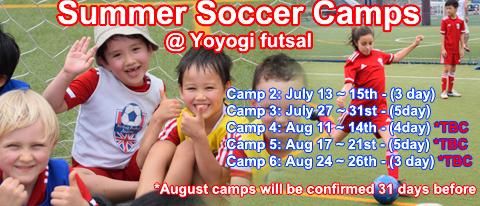
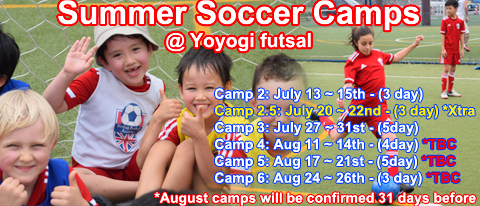
Camp corrections
7 camps

Changed region(s): [[0.3125, 0.4078, 1.0, 1.0]]

diff --git a/j/pages/camp.html b/j/pages/camp.html
@@ -76,7 +76,7 @@
 												<p>6歳〜12歳が対象のサマーキャンプでは年齢別に分けたクラス構成で実施いたします。 開催地は代々木フットサルコートとなります。</p>
 												<p><br>
 													キャンプを仕切るコーチ陣はイギリスフットボール（サッカー）協会公式指導免許を取得している選りすぐりのコーチ達で、全員カリスマ性溢れるプロフェッショナルですので、安心してご参加ください。</p>
-												<p>参加する日にちはフルスケジュール（３日又は４日間）で参加することをおすすめしておりますが、単日での参加も可能となっております。<br>
+												<p>参加する日にちはフルスケジュールで参加することをおすすめしておりますが、単日での参加も可能となっております。<br>
 													注：単日でのご参加も可能ですが、フルスケジュールでご参加のお子様を優先して受け付けさせて頂いております。単日でのご参加が可能かどうかは、キャンプの1週間前に連絡させて頂きますのでご了承頂きます様お願い申し上げます。
 													<br>
 													<br>
@@ -88,32 +88,24 @@
 													<li>6〜8歳対象: 午前 9：10 ~ 午後11：50 (100分間) BFAメンバー1日5,000 / BFAメンバー以外1日6,000
 													<li>9〜12歳対象: 午前11:00 ~ 午後12：00 (1時間)BFAメンバー1日3,000 / BFAメンバー以外1日4,000
 												</ol>
-												<p><b>キャンプ 2:  </b>7月13日 (月) − 10日（水）3日間 @ <b><a class="content" href="https://www.jpnsport.go.jp/yoyogi/sisetu/tabid/222/Default.aspx" target="_blank">Yoyogi Futsal Courts</a></b></p>
+												<p><b>キャンプ 2:  </b>7月13日 (月) − 15日（水）3日間 @ <b><a class="content" href="https://www.jpnsport.go.jp/yoyogi/sisetu/tabid/222/Default.aspx" target="_blank">Yoyogi Futsal Courts</a></b></p>
 												<ol>
 													<li>6〜8歳対象: 午前9:10 ~ 午後10：50 (100分間) BFAメンバー1日5,000 / BFAメンバー以外1日6,000
 													
 													<li>9〜12歳対象: 午前10:00 ~ 午後12：00 (2時間)BFAメンバー1日6,000 / BFAメンバー以外1日7,000
 												</ol>
+												<p><b class="red">キャンプ 2.5: </b>7月20日 (月) − 22日（水）3日間 @ <b><a class="content" href="https://www.jpnsport.go.jp/yoyogi/sisetu/tabid/222/Default.aspx" target="_blank">Yoyogi Futsal Courts</a></b></p>
+												<ol>
+													<li>6〜8歳対象: 午前11:00 ~ 午後12：30 (90分間) BFAメンバー1日5,000 / BFAメンバー以外1日6,000
+													<li>9〜12歳対象: 午前12:30 ~ 午後2：00 (90分間) BFAメンバー1日5,000 / BFAメンバー以外1日6,000
+												</ol>
 												<p><b>キャンプ 3: </b>7月27日 (月) − 7月31日（金）5日間 @ <b><a class="content" href="https://www.jpnsport.go.jp/yoyogi/sisetu/tabid/222/Default.aspx" target="_blank">Yoyogi Futsal Courts</a></b></p>
 												<ol>
-													<li>6〜8歳対象: 午前9:10 ~ 午後10：50 (100分間) BFAメンバー1日4,000 / BFAメンバー以外1日5,000
-													<li>9〜12歳対象: 午前9:10 ~ 午後11：50 (2時40分間) BFAメンバー1日7,000 / BFAメンバー以外1日8,000
+													<li>6〜8歳対象: 午前9:10 ~ 午後10：50 (100分間) BFAメンバー1日5,000 / BFAメンバー以外1日6,000<li>9〜12歳対象: 午前9:10 ~ 午後11：50 (2時40分間) BFAメンバー1日7,000 / BFAメンバー以外1日8,000
 												</ol>
-												<p><b>キャンプ 4: </b>8月11日 (火) − 8月14日（金）4日間　<font color="#ff3300">開催予定</font> @ <font color="#ff3300"> </font><b><a class="content" href="https://www.jpnsport.go.jp/yoyogi/sisetu/tabid/222/Default.aspx" target="_blank">Yoyogi Futsal Courts    </a></b></p>
-												<ol>
-													<li>6〜8歳対象: 午前9:10 ~ 午後10：50 (100分間) BFAメンバー1日4,000 / BFAメンバー以外1日5,000
-													<li>9〜12歳対象: 午前9:10 ~ 午後11：50 (2時40分間) BFAメンバー1日7,000 / BFAメンバー以外1日8,000
-												</ol>
-												<p><b>キャンプ 5: </b>8月17日 (月) − 8月21日（金）5日間 <font color="#ff3300">開催予定</font>@ <b><a class="content" href="https://www.jpnsport.go.jp/yoyogi/sisetu/tabid/222/Default.aspx" target="_blank">Yoyogi Futsal Courts</a></b></p>
-												<ol>
-													<li>6〜8歳対象: 午前9:10 ~ 午後10：50 (100分間) BFAメンバー1日4,000 / BFAメンバー以外1日5,000
-													<li>9〜12歳対象: 午前9:10 ~ 午後11：50 (2時40分間) BFAメンバー1日7,000 / BFAメンバー以外1日8,000
-												</ol>
-												<p><b>キャンプ 6: </b>8月24日 (月) − 8月26日（水）3日間 <font color="#ff3300">開催予定</font>@ <b><a class="content" href="https://www.jpnsport.go.jp/yoyogi/sisetu/tabid/222/Default.aspx" target="_blank">Yoyogi Futsal Courts</a></b></p>
-												<ol>
-													<li>6〜8歳対象: 午前9:10 ~ 午後10：50 (100分間) BFAメンバー1日4,000 / BFAメンバー以外1日5,000
-													<li>9〜12歳対象: 午前9:10 ~ 午後11：50 (2時40分間) BFAメンバー1日7,000 / BFAメンバー以外1日8,000
-												</ol>
+												<p><b>キャンプ 4: </b>8月11日 (火) − 8月14日（金）4日間　<font color="#ff3300">開催予定</font> <font color="#ff3300"> </font></p>
+												<p><b>キャンプ 5: </b>8月17日 (月) − 8月21日（金）5日間 <font color="#ff3300">開催予定</font></p>
+												<p><b>キャンプ 6: </b>8月24日 (月) − 8月26日（水）3日間 <font color="#ff3300">開催予定</font></p>
 												<p></p>
 												<p><img src="../../images/photos/YoyogiFutsal1.jpg" alt="BST camp" height="181" width="600" border="0"></p>
 												<table width="100%" border="1" cellspacing="2" cellpadding="0" bgcolor="yellow">

diff --git a/e/pages/camp.html b/e/pages/camp.html
@@ -88,18 +88,26 @@
 													<span class="small">* Please note that we will prioritise campers who sign up for the full camp, and accept per-day basis campers where spaces are available. We will inform per-day basis campers of the availability 1 week before each camp starts.</span></p>
 												<p><b class="red">At present, 3 camps in July are confirmed, the August camps are still pending confirmation by the venue (This only done 1 month to the day, before).</b></p>
 												<p><b>Dates, Venues &amp; Prices per day:</b></p>
-												<p><b>CAMP 1:</b> July 6th (Mon) - 9th (Wed) - 4 day camp @ <a class="content" href="https://www.jpnsport.go.jp/yoyogi/sisetu/tabid/222/Default.aspx" target="_blank">Yoyogi Futsal Courts</a>.<br>
+												<p><b>CAMP 1:</b> July 6th (Mon) - 9th (Thur) - 4 day camp @ <a class="content" href="https://www.jpnsport.go.jp/yoyogi/sisetu/tabid/222/Default.aspx" target="_blank">Yoyogi Futsal Courts</a>.<br>
 												</p>
 												<ol>
 													<li><b>Ages 6 ~ 8</b>, Time: 9:10 am ~ 10:50 am (100 mins) BFA Members: ¥5,000 <i class="navy">Non BFA Members</i>: ¥6,000<br>
 													<li><b>Ages 9 ~ 12</b>, Time: 11:00 am ~ 12:00 pm (1 hr) BFA Members: ¥3,000 <i class="navy">Non BFA Members</i>: ¥4,000<br>
 													
 												</ol>
-												<p><b>CAMP 2:</b> July 6th (Mon) - 8th (Wed) - 3 day camp @ <a class="content" href="https://www.jpnsport.go.jp/yoyogi/sisetu/tabid/222/Default.aspx" target="_blank">Yoyogi Futsal Courts</a><br>
+												<p><b>CAMP 2:</b> July 13th (Mon) - 15th (Wed) - 3 day camp @ <a class="content" href="https://www.jpnsport.go.jp/yoyogi/sisetu/tabid/222/Default.aspx" target="_blank">Yoyogi Futsal Courts</a><br>
 												</p>
 												<ol>
 													<li><b>Ages 6 ~ 8</b>, Time: 9:10 am ~ 10:50 am (100 mins) BFA Members: ¥5,000 <i class="navy">Non BFA Members</i>: ¥6,000<br>
 													<li><b>Ages 9 ~ 12</b>, Time: 10:00 am ~ 12:00 pm (2 hrs) BFA Members: ¥6,000 <i class="navy">Non BFA Members</i>: ¥7,000<br>
+												</ol>
+												<p><b class="red">CAMP 2.5 :</b> July 20th (Mon) - 22nd (Wed) - 3 day camp @ <a class="content" href="https://www.jpnsport.go.jp/yoyogi/sisetu/tabid/222/Default.aspx" target="_blank">Yoyogi Futsal Courts</a><br>
+												</p>
+												<ol>
+													<li><b>Ages 6 ~ 8</b>, Time: 11:00 am ~ 12:30 pm (90 mins) BFA Members: ¥5,000 <i class="navy">Non BFA Members</i>: ¥6,000<br>
+													<li><b>Ages 9 ~ 12</b>, Time: 12:30 pm ~ 2:00 pm (90 mins) BFA Members: ¥5,000 <i class="navy">Non BFA Members</i>: ¥6,000<br>
+													
+													
 												</ol>
 												<p><b>CAMP 3:</b> July 27th (Mon) - 31st (Fri) - 5 day camp @ <a class="content" href="https://www.jpnsport.go.jp/yoyogi/sisetu/tabid/222/Default.aspx" target="_blank">Yoyogi Futsal Courts</a>.<br>
 												</p>
@@ -107,25 +115,19 @@
 													<li><b>Ages 6 ~ 8</b>, Time: 9:10 am ~ 10:50 am (100 mins) BFA Members: ¥5,000 <i class="navy">Non BFA Members</i>: ¥6,000<br>
 													<li><b>Ages 9 ~ 12</b>, Time: 9:10 am ~ 11:50 am (2 hrs 40 mins) BFA Members: ¥7,000 <i class="navy">Non BFA Members</i>: ¥8,000<br>
 												</ol>
-												<p><b>CAMP 4:</b> August 11th (Tue) - 14th (Fri) - 4 day camp <b class="red">- To be confirmed</b> @ <a class="content" href="https://www.jpnsport.go.jp/yoyogi/sisetu/tabid/222/Default.aspx" target="_blank">Yoyogi Futsal Courts</a>.<br>
+												<p><b>CAMP 4:</b> August 11th (Tue) - 14th (Fri) - 4 day camp <b class="red">- To be confirmed July 14th</b><br>
 												</p>
 												<ol>
-													<li><b>Ages 6 ~ 8</b>, Time: 9:10 am ~ 10:50 am (100 mins) BFA Members: ¥5,000 <i class="navy">Non BFA Members</i>: ¥6,000<br>
-													<li><b>Ages 9 ~ 12</b>, Time: 9:10 am ~ 11:50 am (2 hrs 40 mins) BFA Members: ¥7,000 <i class="navy">Non BFA Members</i>: ¥8,000<br>
 													
 												</ol>
-												<p><b>CAMP 5:</b> August 17th (Mon) - 21st (Fri) - 5 day camp <b class="red">- To be confirmed</b> @ <a class="content" href="https://www.jpnsport.go.jp/yoyogi/sisetu/tabid/222/Default.aspx" target="_blank">Yoyogi Futsal Courts</a><br>
+												<p><b>CAMP 5:</b> August 17th (Mon) - 21st (Fri) - 5 day camp <b class="red">- To be confirmed July 21st</b><br>
 												</p>
 												<ol>
-													<li><b>Ages 6 ~ 8</b>, Time: 9:10 am ~ 10:50 am (100 mins) BFA Members: ¥5,000 <i class="navy">Non BFA Members</i>: ¥6,000<br>
-													<li><b>Ages 9 ~ 12</b>, Time: 9:10 am ~ 11:50 am (2 hrs 40 mins) BFA Members: ¥7,000 <i class="navy">Non BFA Members</i>: ¥8,000<br>
 													
 												</ol>
-												<p><b>CAMP 6:</b> August 24th (Mon) - 26th (Wed) - 5 day camp <b class="red">- To be confirmed</b> @ <a class="content" href="https://www.jpnsport.go.jp/yoyogi/sisetu/tabid/222/Default.aspx" target="_blank">Yoyogi Futsal Courts</a>.<br>
+												<p><b>CAMP 6:</b> August 24th (Mon) - 26th (Wed) - 3 day camp <b class="red">- To be confirmed July 26th</b><br>
 												</p>
 												<ol>
-													<li><b>Ages 6 ~ 8</b>, Time: 9:10 am ~ 10:50 am (100 mins) BFA Members: ¥5,000 <i class="navy">Non BFA Members</i>: ¥6,000<br>
-													<li><b>Ages 9 ~ 12</b>, Time: 9:10 am ~ 11:50 am (2 hrs 40 mins) BFA Members: ¥7,000 <i class="navy">Non BFA Members</i>: ¥8,000<br>
 													
 												</ol>
 												<p><img src="../../images/photos/YoyogiFutsal1.jpg" alt="Yoyogi Futsal" height="181" width="600" align="middle" border="0"></p>

diff --git a/e/index.html b/e/index.html
@@ -128,8 +128,8 @@
 										</td>
 										<td class="c7" valign="top">
 											<h2 class="red">BRITISH FOOTBALL ACADEMY LATEST NEWS</h2>
-											<p><b class="blue">SUMMER SOCCER CAMPS</b></p>
-											<p>We now have 6 camps tentatively scheduled for this summer. The first 3 are confirmed with the latter 3 to be confirmed with the venue 31 days before. These camps are proving to be very popular, with the July camps all 80~100% full. Book your place early for August so you don't miss out. <a class="content" href="pages/camp.html">For more camp information CLICK HERE</a>.<br>
+											<p><b class="blue">SUMMER SOCCER CAMPS <span class="or">(New camp just added, July 20~22)</span></b></p>
+											<p>We now have 7 camps tentatively scheduled for this summer. The first 3 are confirmed with the latter 3 to be confirmed with the venue 31 days before. These camps are proving to be very popular, with the July camps all 80~100% full. Book your place early for August so you don't miss out. <a class="content" href="pages/camp.html">For more camp information CLICK HERE</a>.<br>
 												<br>
 												<a href="pages/camp.html"><img src="../images/photos/2020camp-yoyogi.jpg" alt="" height="206" width="480" border="0"></a></p>
 											<hr align="left">
